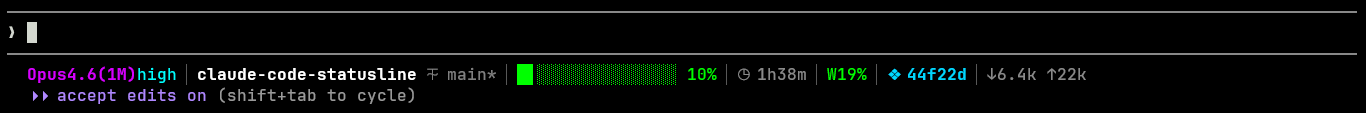
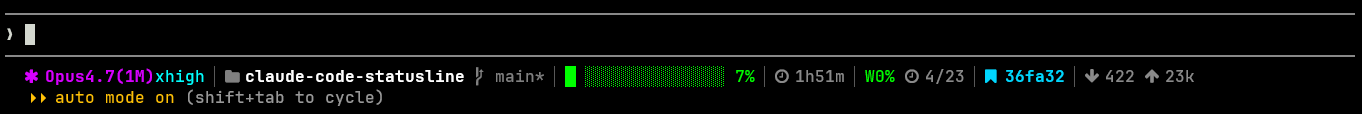
save

diff --git a/statusline.py b/statusline.py
@@ -6,11 +6,11 @@ context usage bar, the session-limit reset countdown, the weekly-limit
 percentage, the session name, and input/output token counts.
 
 Limitations:
-- Effort: "max" is detected from the model's 1M context ID. Other levels
-  reflect the saved effortLevel in ~/.claude/settings.json; a live /effort
-  override (other than max) will not show until persisted.
-- Git info requires `git` on PATH and a 1.5s budget. Slow repos render as
-  '⏇ git…'.
+- Effort reflects the saved effortLevel in ~/.claude/settings.json. A live
+  /effort change only shows after the harness persists it.
+- Icons are Nerd Font glyphs — requires a Nerd Font-patched terminal font.
+- Git info requires `git` on PATH and a 1.5s budget. Slow repos render the
+  branch as 'git…'.
 - context_window.used_percentage excludes output tokens (per Claude Code docs).
 """
 
@@ -29,6 +29,15 @@ EMPTY = "░"
 GIT_TIMEOUT = 1.5
 CACHE_TTL = 2.0
 CACHE_FILE = Path.home() / ".claude" / "statusline-cache.json"
+
+# Nerd Font icons (require a Nerd Font-patched terminal font).
+ICON_MODEL = "\uf069"  # nf-fa-asterisk (proxy for Anthropic mark)
+ICON_FOLDER = "\uf07b"  # nf-fa-folder
+ICON_BRANCH = "\ue0a0"  # nf-pl-branch
+ICON_CLOCK = "\uf017"  # nf-fa-clock_o
+ICON_BOOKMARK = "\uf02e"  # nf-fa-bookmark_o
+ICON_ARROW_DOWN = "\uf063"  # nf-fa-arrow_down
+ICON_ARROW_UP = "\uf062"  # nf-fa-arrow_up
 
 
 # --- 256-color ANSI helpers ---
@@ -67,9 +76,7 @@ def wrap(s: str, *codes: str) -> str:
 
 
 # --- data gathering ---
-def load_effort(model_id: str = "") -> str:
-    if "[1m]" in model_id:
-        return "max"
+def load_effort() -> str:
     try:
         data = json.loads(
             (Path.home() / ".claude" / "settings.json").read_text("utf-8")
@@ -220,21 +227,24 @@ def main() -> int:
 
     session_label = data.get("session_name") or (data.get("session_id") or "")[:6]
 
-    effort = load_effort(model.get("id") or "")
+    effort = load_effort()
     cols = int(os.environ.get("COLUMNS") or 200)
 
     # assemble segments
     sep = wrap("▕ ", SEP_COLOR)
 
-    seg_model = wrap(model_name, BOLD, model_color(model_name)) + wrap(
-        effort, CYAN_BRIGHT
+    seg_model = (
+        wrap(ICON_MODEL, model_color(model_name))
+        + " "
+        + wrap(model_name, BOLD, model_color(model_name))
+        + wrap(effort, CYAN_BRIGHT)
     )
 
-    seg_dir = wrap(dir_name, BOLD, WHITE)
+    seg_dir = wrap(ICON_FOLDER, GRAY) + " " + wrap(dir_name, BOLD, WHITE)
     gi = git_info(cwd)
     if gi is not None:
         branch, dirty = gi
-        git_str = f"⏇ {branch}{'*' if dirty else ''}"
+        git_str = f"{ICON_BRANCH} {branch}{'*' if dirty else ''}"
         seg_dir += " " + wrap(git_str, GRAY)
 
     bar, bar_color = render_bar(pct)
@@ -242,7 +252,7 @@ def main() -> int:
 
     seg_reset = None
     if reset_at is not None:
-        seg_reset = wrap(f"◷ {fmt_countdown(float(reset_at))}", DIM_GRAY)
+        seg_reset = wrap(f"{ICON_CLOCK} {fmt_countdown(float(reset_at))}", DIM_GRAY)
 
     seg_weekly = None
     if weekly_pct is not None:
@@ -251,16 +261,19 @@ def main() -> int:
         if weekly_reset is not None:
             rst = time.localtime(float(weekly_reset))
             seg_weekly = wrap(f"W{wp:.0f}%", pct_color(wp)) + wrap(
-                f" ◷ {rst.tm_mon}/{rst.tm_mday}", DIM_GRAY
+                f" {ICON_CLOCK} {rst.tm_mon}/{rst.tm_mday}", DIM_GRAY
             )
         else:
             seg_weekly = wrap(f"W{wp:.0f}%", pct_color(wp))
 
     seg_summary = None
     if session_label:
-        seg_summary = wrap(f"❖ {session_label}", BOLD, SUMMARY)
+        seg_summary = wrap(f"{ICON_BOOKMARK} {session_label}", BOLD, SUMMARY)
 
-    seg_tok = wrap(f"↓{fmt_tokens(in_tok)} ↑{fmt_tokens(out_tok)}", DIM_GRAY)
+    seg_tok = wrap(
+        f"{ICON_ARROW_DOWN} {fmt_tokens(in_tok)} {ICON_ARROW_UP} {fmt_tokens(out_tok)}",
+        DIM_GRAY,
+    )
 
     # Order: model, dir, bar, reset countdown, weekly %, session summary, tokens
     parts = [seg_model, seg_dir, seg_ctx]

diff --git a/README.md b/README.md
@@ -6,8 +6,8 @@ A polished, colorful status bar for [Claude Code](https://claude.com/claude-code
 
 ## Features
 
-- **Model and effort level**, colored by family (Opus magenta, Sonnet cyan, Haiku amber)
-- **Directory and git branch** with a dirty indicator
+- **Model and effort level**, colored by family (Opus magenta, Sonnet cyan, Haiku amber), prefixed with an Anthropic-style asterisk mark
+- **Directory and git branch** with a dirty indicator, each tagged with a Nerd Font icon
 - **16-block context bar** with partial-block fine fill and smart coloring (green ≤50%, yellow ≤75%, red >75%)
 - **Session reset countdown** — time until the next 5-hour window flips
 - **Weekly usage percentage** — same color rules as the context bar
@@ -40,7 +40,7 @@ Re-running the installer is safe — it's idempotent.
 - **Claude Code** — [install instructions](https://claude.com/claude-code)
 - **Python 3.8+** on your `PATH`
 - **git** (optional) — only needed if you want the branch segment to show anything
-- A terminal with a font that supports Unicode block and partial-block glyphs. Known-working fonts: **Cascadia Code**, **JetBrains Mono**, **Fira Code**, any **Nerd Font**. Windows Terminal, iTerm2, Alacritty, Kitty, and Wezterm all render correctly.
+- A **[Nerd Font](https://www.nerdfonts.com/)**-patched terminal font. The status bar uses Nerd Font glyphs for the model, folder, branch, clock, session, and token arrows — without one, those positions render as tofu (□). Any Nerd Font works: **JetBrainsMono Nerd Font**, **FiraCode Nerd Font**, **CaskaydiaCove Nerd Font**, etc. Windows Terminal, iTerm2, Alacritty, Kitty, and Wezterm all render correctly once the font is set.
 
 ## Uninstall
 
@@ -76,7 +76,8 @@ If the install script doesn't work for you, here are the two steps it does:
 - **Colors**: the `c256(...)` constants near the top. [256-color chart](https://www.ditig.com/256-colors-cheat-sheet)
 - **Bar width**: change `BAR_WIDTH` (default 16)
 - **Bar glyphs**: swap `FULL`, `EMPTY`, `PARTIALS` for any other block characters
-- **Segment glyphs**: `⏇` (git), `◷` (reset), `❖` (session name), `▕` (separator) — swap for anything your font likes
+- **Icons**: the `ICON_*` constants near the top hold each Nerd Font codepoint — `ICON_MODEL` (asterisk), `ICON_FOLDER`, `ICON_BRANCH`, `ICON_CLOCK`, `ICON_BOOKMARK`, `ICON_ARROW_DOWN`, `ICON_ARROW_UP`. Browse the [Nerd Font cheat sheet](https://www.nerdfonts.com/cheat-sheet) and drop in a new `\uXXXX` escape
+- **Separator**: `▕` is still a plain Unicode block glyph — swap for anything your font likes
 - **Segments**: comment out any `parts.append(...)` line inside `main()` to hide a segment
 - **Thresholds**: edit `pct_color()` to change where green → yellow → red
 
@@ -88,7 +89,7 @@ After editing, restart Claude Code or type `/hooks` to reload.
 Type `/hooks` in Claude Code to reload the config, or restart the app. Sessions that were open before the install don't automatically pick up the new `statusLine` entry.
 
 **Squares or "tofu" instead of glyphs**
-Your terminal font doesn't have those Unicode characters. Install JetBrains Mono, Cascadia Code, Fira Code, or any Nerd Font, and set your terminal to use it.
+Your terminal font isn't a Nerd Font. The icons live in the Unicode Private Use Area, so only Nerd Font-patched builds have them. Grab any build from [nerdfonts.com](https://www.nerdfonts.com/font-downloads) — the "Mono" variants (e.g. JetBrainsMono Nerd Font Mono) work best in terminals. Set it as your terminal's font and the glyphs will render.
 
 **The model color looks wrong / one color for everything**
 Your terminal might not support 256-color mode. Most modern ones do. If yours doesn't, set `NO_COLOR=1` in your environment to fall back to plain text.
